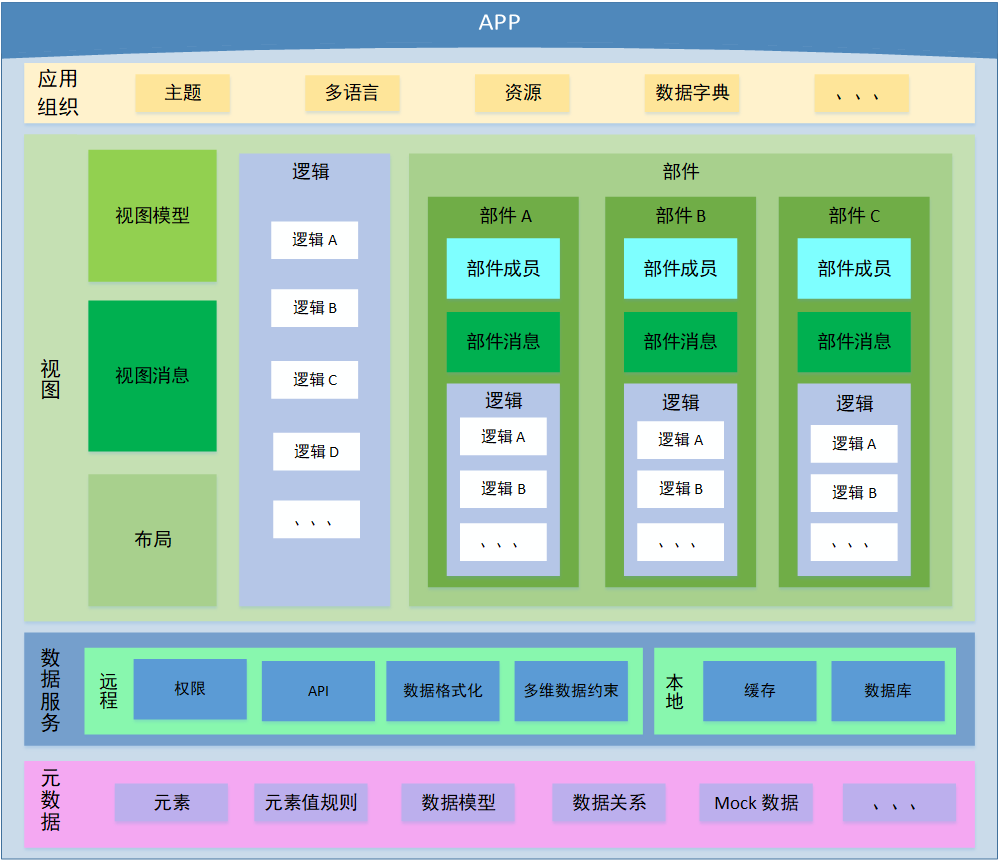
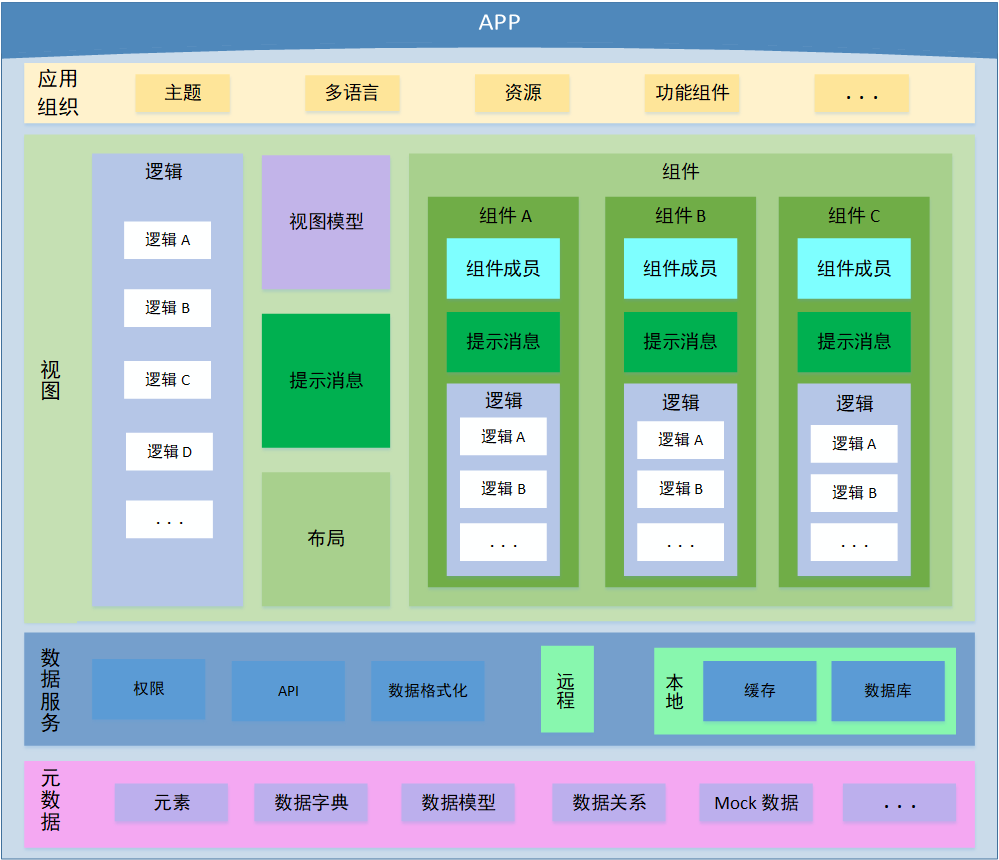
udpate

diff --git a/README.md b/README.md
@@ -1,6 +1,6 @@
 # 应用程序结构模型
 
-在常规的应用程序由多个部分组成，将一个应用通过不同的功能结构化拆解，会发现应用主要有基本应用组织、提供界面表现的视图、提供数据获取的数据服务和元数据等几个部分组成。
+在常规的应用程序（以下简称 app）由多个部分组成，将一个 app 根据不同的功能做结构化拆解，发现应用的主要组成有应用组织、视图、数据服务和元数据等几个部分组成。
 
 结构化应用程序的意义，在于开发人员对应用的构成，有一个清晰明了的定义，明确基于程序文件的那一部分，定了什么样的功能，在应用程序中，处于何种定位，方便开发人员理解和参与内容优化。
 
@@ -8,38 +8,103 @@
 
 ![应用程序结构](imgs/app-structure.png)
 
-
-
 ## 应用组织
 
-应用组织，在应用程序中，为其提供应用级功能性内容，成员如下：
+应用组织，在 app 中，为其提供应用级功能性内容，成员如下：
 
 - 主题：提供应用级样式，应用程序可以切换不同样式，通过主题切换，为界面提供不同的样式展现。
 - 多语言：多语言是前端必备的功能点，面向多样化的用户场景。
-- 资源：应用内图片、图标等资源文件。
-- 数据字典：数据信息的集合。
+- 资源：app 内图片、图标等资源文件。
+- 功能组件：登录页面、注销页面、404 页面、 500 页面等功能组件，该组件一般不会复用。
+
+应用组织的内容，多为 app 所必须的结构，补充 app 所能提供的功能。
+
+
+
+埃毕致前端模型，在适配应用组织成员上，做了比较多的结构设计，可以为 app 构建对于的应用组织成员。
 
 组织模型化支持如下表：
 
-| 应用组织 | 模型名称     | 详情                                                         |
-| -------- | ------------ | ------------------------------------------------------------ |
-| 主题     | 应用界面主题 | [IPSAppUITheme](https://modelapi.ibizlab.cn/#/net/ibizsys/model/app/theme/IPSAppUITheme) |
-| 多语言   | 应用多语言   | [IPSAppLan](https://modelapi.ibizlab.cn/#/net/ibizsys/model/app/IPSAppLan) |
-| 资源     | 系统图片资源 | [IPSSysImage](https://modelapi.ibizlab.cn/#/net/ibizsys/model/res/IPSSysImage) |
-| 数据字典 | 系统代码表   | [IPSCodeList](https://modelapi.ibizlab.cn/#/net/ibizsys/model/codelist/IPSCodeList) |
-| 、、、   | 、、、       | 、、、                                                       |
+| 应用组织 | 模型名称     | 详情                                                         | 备注    |
+| -------- | ------------ | ------------------------------------------------------------ | ------- |
+| 主题     | 应用界面主题 | [IPSAppUITheme](https://modelapi.ibizlab.cn/#/net/ibizsys/model/app/theme/IPSAppUITheme) |         |
+| 多语言   | 应用多语言   | [IPSAppLan](https://modelapi.ibizlab.cn/#/net/ibizsys/model/app/IPSAppLan) |         |
+| 资源     | 系统图片资源 | [IPSSysImage](https://modelapi.ibizlab.cn/#/net/ibizsys/model/res/IPSSysImage) |         |
+| 功能组件 | 应用功能页面 | [ IPSAppUtilPage](https://modelapi.ibizlab.cn/#/net/ibizsys/model/app/IPSAppUtilPage) |         |
+| . . .    | .  .  .      | .  .  .                                                      | .  .  . |
+
+应用界面主题模型，应该包含一整套的模型内容，主题所需的必备点在模型中，应该做关系约束比较好，有需要可以做模型补充，约束结构如下所示：
+
+![theme](imgs/theme.png)
+
+
 
 ## 视图
 
-视图是应用程序的内容单位，通过一系列操纵，切换不同的视图，呈现不同的内容。不同的视图内容，可以通过不同的模型来构建处理。
+视图时 app 的内容单位，视图本身属于组件的一种。
 
-在视图模型，不同的原因场景，将由不同的视图模型来处理，如表格视图、表单视图，都是因为具有不同的数据表现模型，所必须采用的模型结构。
+视图组为独立的功能结构来做说明，是因为视图本都属于 app 业务结构的抽象集合。一个视图，就是一个完整业务能力在 app 中的表现，app 通过不同的视图，展示不同业务需要，构建可以重复使用的内容单位。
 
-现已支持的模型化视图类型如下：
+文本将功能组件与视图做出区别，就在于组件是否被基于业务重复使用。功能组件一般只有特定条件才会被 app 访问，视图则会在整个 app 会被重复使用。
 
-![视图模型](imgs/view-model.png)
+视图成员如下：
 
-查看详情，[请点击](https://modelapi.ibizlab.cn/doc/model/model.htm)。
+- 逻辑：视图拥有的数据处理代码结构。
+
+- 视图模型：视图数据模型。
+- 提示消息：视图提示消息，一般放置静态的 Alert 类提示信息。
+- 布局：视图内容布局，将组件在不同的位置展示。
+- 组件：视图业务数据的抽象单位。
+  - 组件成员：部分组件会实现更加细化的抽象结构，如表单中的数据编辑对象。
+  - 提示消息：组件提示消息，一般分为静态和动态。静态消息和视图消息类似，动态消息主要为组件数据加载、处理后的提示信息。
+  - 逻辑：部分组件除了数据加载逻辑之外，会附加其他处理，如删除、编辑等，常见于表格或者列表中。
+
+
+
+埃毕致前端模型，针对视图提供了 [应用视图模型（IPSAppView）]( https://modelapi.ibizlab.cn/#/net/ibizsys/model/app/view/IPSAppView ) ，该视图模型为常规视图提供所需的视图布局、逻辑等一系列内容，以下几个结构以 应用视图模型适配视图成员做出说明。
+
+
+
+### 逻辑
+
+> 注：本章节中提到的部件，将在组件章节做出介绍。
+
+逻辑作为交互功能的代码单位，在视图中有非常重要的地位。它是视图业务的表现，也是数据处理的重要环节。
+
+埃毕致前端模型中，逻辑模型本身是中立的，它并不针对场景设计逻辑模型。一般是定义好模型之后，将模型挂载到视图上，模型落地即成为视图模型；将模型挂载到部件上，模型落地即成为部件模型。
+
+除了基于视图交互所定义的模型之外，埃毕致前端模型还预置引擎逻辑，数据校验等其他的逻辑模型。
+
+埃毕致前端现有的模型能力，基本能适配常见的视图逻辑内容，详情如下：
+
+| 模型名称             | 详情                                                         | 备注    |
+| -------------------- | ------------------------------------------------------------ | ------- |
+| 界面行为             | [ IPSUIAction](https://modelapi.ibizlab.cn/#/net/ibizsys/model/view/IPSUIAction) |         |
+| 应用视图逻辑         | [IPSAppViewLogic](https://modelapi.ibizlab.cn/#/net/ibizsys/model/app/view/IPSAppViewLogic) |         |
+| 应用视图逻辑引用视图 | [ IPSAppViewLogicRefView](https://modelapi.ibizlab.cn/#/net/ibizsys/model/app/view/logic/IPSAppViewLogicRefView) |         |
+| 应用视图新建数据逻辑 | [ IPSAppViewNewDataLogic](https://modelapi.ibizlab.cn/#/net/ibizsys/model/app/view/logic/IPSAppViewNewDataLogic) |         |
+| 实体打开数据视图逻辑 | [ IPSAppViewOpenDataLogic](https://modelapi.ibizlab.cn/#/net/ibizsys/model/app/view/logic/IPSAppViewOpenDataLogic) |         |
+| 应用部件逻辑         | [ IPSControlLogic](https://modelapi.ibizlab.cn/#/net/ibizsys/model/control/IPSControlLogic) |         |
+| 系统内置视图引擎     | [IPSViewEngine](https://modelapi.ibizlab.cn/#/net/ibizsys/model/view/IPSViewEngine) |         |
+| .  .  .              | .  .  .                                                      | .  .  . |
+
+埃毕致逻辑模型在 app 上的交互结构，可以从下图说明：
+
+![逻辑交互](imgs/logicaction.png)
+
+逻辑在视图和部件内部，本身具有完整的处理逻辑，作为载体，逻辑在其内部是封闭的。
+
+同时，视图和部件，也可以通过逻辑进行交互，它是二者数据流向的的通道。
+
+
+
+### 视图模型
+
+视图模型是由前端开发人员组织生成和维护的视图数据层。 
+
+在应用视图模型中，并没有提供相应的视图模型对象，给需要使用的 app 程序直接消费。但是，应用视图模型本身具备有视图模型所需变量，模型使用人员可以通过应用视图模型构建前端所需的
+
+
 
 ### 视图结构
 
@@ -61,21 +126,7 @@
 | 视图消息 | 视图消息     | [ IPSViewMsg](https://modelapi.ibizlab.cn/#/net/ibizsys/model/view/IPSViewMsg) |
 | 布局     | 视图布局面板 | [ IPSViewLayoutPanel](https://modelapi.ibizlab.cn/#/net/ibizsys/model/control/panel/IPSViewLayoutPanel) |
 
-### 逻辑
 
-在应用中，逻辑属于界面表现的核心部分，它是基于数据为目标、交互为过程的一系列行为。逻辑本身补足了静态界面在展现方面的缺点，带有业务的逻辑，更是大大丰富了界面的能力。
-
-根据不同的使用常见和提供的功能，将逻辑分为多种，如下表：
-
-| 模型名称         | 详情                                                         |
-| ---------------- | ------------------------------------------------------------ |
-| 系统逻辑         | [ IPSSysLogic](https://modelapi.ibizlab.cn/#/net/ibizsys/model/res/IPSSysLogic) |
-| 系统预置视图逻辑 | [IPSSysViewLogic](https://modelapi.ibizlab.cn/#/net/ibizsys/model/res/IPSSysViewLogic) |
-| 界面逻辑         | [ IPSViewLogic](https://modelapi.ibizlab.cn/#/net/ibizsys/model/view/IPSViewLogic) |
-| 实体逻辑         | [ IPSDELogic](https://modelapi.ibizlab.cn/#/net/ibizsys/model/dataentity/logic/IPSDELogic) |
-| 实体逻辑行为     | [ IPSDELogicAction](https://modelapi.ibizlab.cn/#/net/ibizsys/model/dataentity/action/IPSDELogicAction) |
-| 应用部件逻辑     | [ IPSControlLogic](https://modelapi.ibizlab.cn/#/net/ibizsys/model/control/IPSControlLogic) |
-| 、、、           | 、、、                                                       |
 
 ### 部件
 
